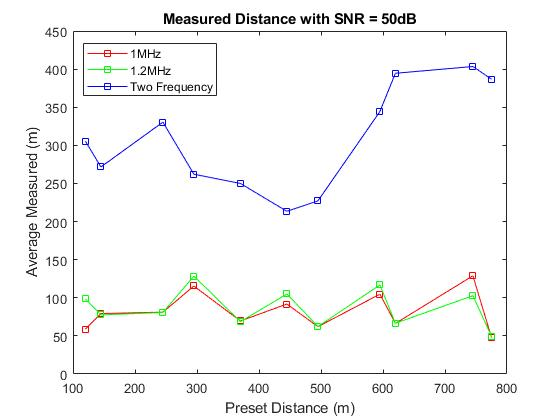
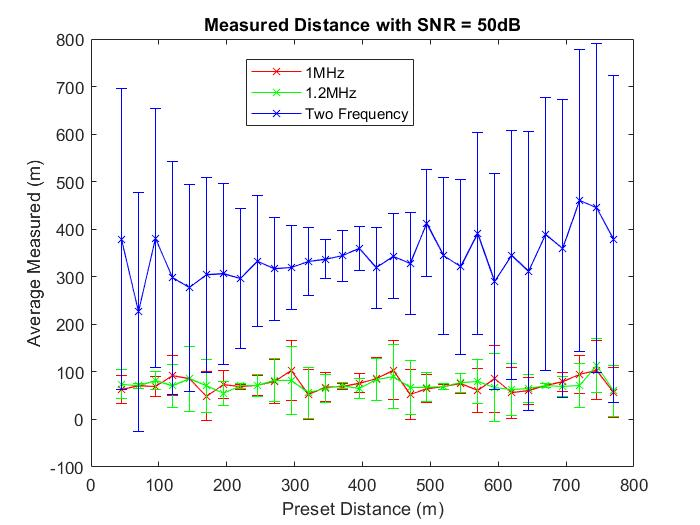
It's over

Changed region(s): [[0.0304, 0.0619, 0.9411, 0.9905], [0.2732, 0.031, 0.7589, 0.0929]]

diff --git a/CS_TOF_FDsim_LightVer.m b/CS_TOF_FDsim_LightVer.m
@@ -4,7 +4,7 @@ clc;
 
 %% Create signal
 LightSpeed = 3e8;
-OrgDis = 45; %m
+OrgDis = 500; %m
 Fbase = 1000; %KHz
 F1 = Fbase; %KHz = 1MHz %First frequency of the signal
 F2 = 1.2*Fbase; %KHz = 1.2MHz %Second frequency of the signal
@@ -64,14 +64,7 @@ cvx_begin
     Phi*Psi*xpR == GrabRef;
 cvx_end
 %% Confirm correct recovery
-subplot(8,1,1)
-plot(real(xp),'r')
-title('Fourier Transform Of Object Signal');
-subplot(8,1,2)
-plot(real(xpR),'r')
-title('Fourier Transform Of Reference Signal');
-
-subplot(8,1,3)
+figure()
 plot(real(ifft(xpR)),'g.');
 xlim([0 1000])
 hold all
@@ -79,7 +72,7 @@ plot(SigRef,'r');
 legend('Recovered Reference','Original Reference')
 title('Recovery Verify for Reference Signal');
 
-subplot(8,1,4)
+figure()
 plot(real(ifft(xp)),'g.');
 xlim([0 1000])
 hold all
@@ -87,42 +80,60 @@ plot(SigObj,'r');
 legend('Recovered Object','Original Object')
 title('Recovery Verify for Object Signal'); 
 
-subplot(8,1,5)
+figure()
+subplot(5,2,[1 2])
 plot(SigRef,'g');
+set(gca,'XTick',[])
 hold on 
 plot(SigObj,'r');
+set(gca,'XTick',[]);
 %xlim([0 1000]); %Limit for clear view of signal phase difference
 legend('Reference','Object')
 title('Original Signal')
-xlabel('ms')
+%xlabel('ms')
 ylabel('Amplitude')
 
-subplot(8,1,6)
+subplot(5,2,[3 4])
 plot(CodeObj,'g');
+set(gca,'XTick',[]);
 hold all
 plot(CodeRef,'r');
+set(gca,'XTick',[]);
 legend('Reflected Object','Transmitted Reference');
 title('Encrypted Signal');
 ylabel('Intensity')
-xlabel('ms');
+%xlabel('ms');
 
-subplot(8,1,7)
+subplot(5,2,[5 6])
 plot(GrabObj,'g');
+set(gca,'XTick',[]);
 hold on
 plot(GrabRef,'r');
+set(gca,'XTick',[]);
 legend('Reflected Object','Transmitted Reference');
 title("Captured Signal");
 ylabel('Intensity');
-xlabel('Samples');
+%xlabel('Samples');
 
-subplot(8,1,8)
+subplot(5,2,7)
+plot(real(fftshift(xp)),'r')
+set(gca,'XTick',[]);
+title('Fourier Transform Of Object Signal');
+subplot(5,2,8)
+plot(real(fftshift(xpR)),'r')
+set(gca,'XTick',[]);
+title('Fourier Transform Of Reference Signal');
+
+subplot(5,2,[9 10])
 plot(real(ifft(xpR)),'g');
+set(gca,'XTick',[]);
 %xlim([0 1000]) %Limit for clear view of signal phase difference
 hold all
 plot(real(ifft(xp)),'r');
+set(gca,'XTick',[]);
 legend('Reference','Object')
 title('Processed signal')
-xlabel('ms')
+%xlabel('ms')
 ylabel('Amplitude')
 %% Calculate phase difference (in time domain)
 MaxObjLoc = 0;

diff --git a/CS_TOF_FDsim_Noise_LightVer.m b/CS_TOF_FDsim_Noise_LightVer.m
@@ -3,18 +3,18 @@ clear all
 close all
 %% Create signal
 LightSpeed = 3e8;
-OrgDis = 45; %m
+OrgDis = 500; %m
 Fbase = 1000; %KHz
 F1 = Fbase; %KHz = 1MHz %First frequency of the signal
 F2 = 1.2*Fbase; %KHz = 1.2MHz %Second frequency of the signal
 PD1 = (2*pi*10^3*2*F1*OrgDis)/LightSpeed; %1st Component Phase Difference
 PD2 = (2*pi*10^3*2*F2*OrgDis)/LightSpeed; %2nd Component Phase Difference
 SpL = 2; %Sparse level
-SampPerCyc = 60;
+SampPerCyc = 80;
 Fs = 10; %Sampling Frequency at 10 KHz
 L = (SampPerCyc*(F1+F2)/Fs)/2; %Length of the signal reduced 2 times for faster calculation
-LoopNum = SampPerCyc*(F1+F2)/1000; %Signal repeat times number
-SampleShift = L/LoopNum; %Delay between sample capture
+LoopNum = 300; %Signal repeat times number
+SampleShift = round(L/LoopNum); %Delay between sample capture
 Pos = zeros(LoopNum,1); %Captured position of signal
 RealGrabRef = zeros(L,1);
 RealGrabObj = zeros(L,1);

diff --git a/Sim2ResNoise.m b/Sim2ResNoise.m
@@ -3,13 +3,32 @@ clc
 AvgDis2FNR = AvgDis2FN';
 AvgDisF1NR = AvgDisF1N';
 AvgDisF2NR = AvgDisF2N';
+
+MeanDisF1N = mean(DisF1N,2);
+StdDisF1N = std(DisF1N,0,2);
+
+MeanDisF2N = mean(DisF2N,2);
+StdDisF2N = std(DisF2N,0,2);
+
+MeanDis2FN = mean(Dis2FN,2);
+StdDis2FN = std(Dis2FN,0,2);
+
 OrgDisR = OrgDis';
+
 figure()
-plot(OrgDis,AvgDisF1N,'-sr');
+plot(OrgDis,MeanDisF1N,'-xr');
 hold on
-plot(OrgDis,AvgDisF2N,'-sg');
+plot(OrgDis,MeanDisF2N,'-xg');
 hold on
-plot(OrgDis,AvgDis2FN,'-sb');
+plot(OrgDis,MeanDis2FN,'-xb');
+
+hold on
+errorbar(OrgDis,MeanDisF1N,StdDisF1N,'r');
+hold on
+errorbar(OrgDis,MeanDisF2N,StdDisF2N,'g');
+hold on
+errorbar(OrgDis,MeanDis2FN,StdDis2FN,'b');
+
 legend("1MHz","1.2MHz","Two Frequency");
 title("Measured Distance with SNR = 50dB");
 ylabel("Average Measured (m)");

diff --git a/Result_Samp.m b/Result_Samp.m
@@ -9,7 +9,7 @@ figure();
 plot(LoopNum,ErrObjMean,'-sr');
 xlabel("Samples");
 ylabel("Mean Squared Error");
-title("Relation between SNR and Recover MSE");
+title("Relation between Samples Number and Recover MSE");
 hold on
 errorbar(LoopNum,ErrObjMean,ErrObjStd,'r');
 ErrDisStd = std(ErrDisAbs,0,2);
@@ -18,6 +18,6 @@ figure();
 plot(LoopNum,ErrDisMean,'-sg');
 xlabel("Samples");
 ylabel("Percentage (%)");
-title("Relation between SNR and Distance Error Rate");
+title("Relation between Samples Number and Distance Error Rate");
 hold on
 errorbar(LoopNum,ErrDisMean,ErrDisStd,'g');

diff --git a/Retraction.m b/Retraction.m
@@ -1,0 +1,12 @@
+close all
+clc
+AvgDis = AvgDis;
+AvgObj = AvgObj;
+Dis = Dis;
+ErrDis = ErrDis;
+ErrObj = ErrObj;
+LoopNum = LoopNum;
+SumDis = SumDis;
+SumObj = SumObj;
+i = i;
+j = j;
